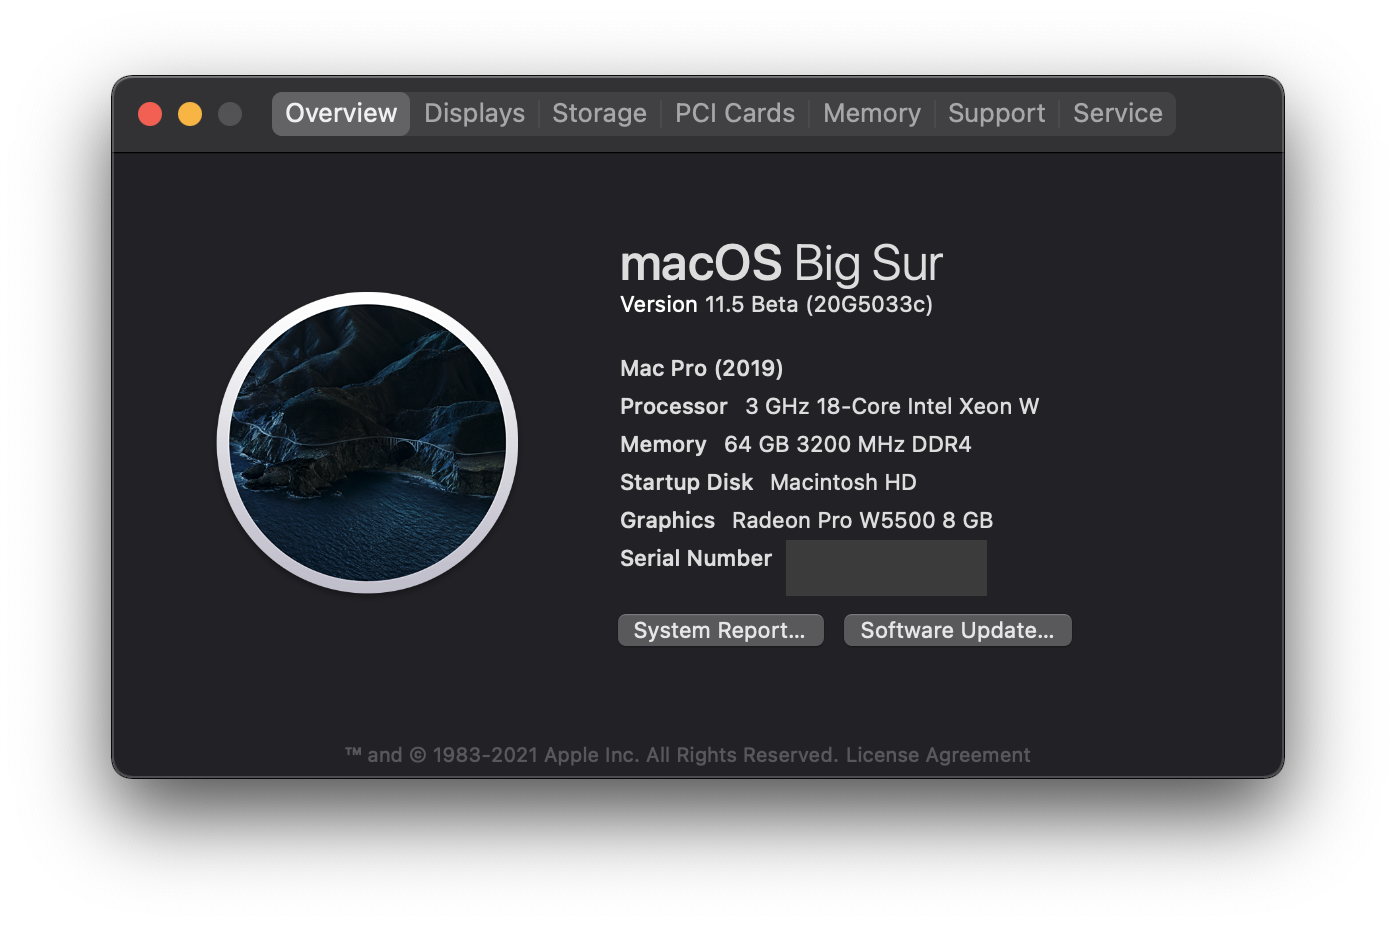
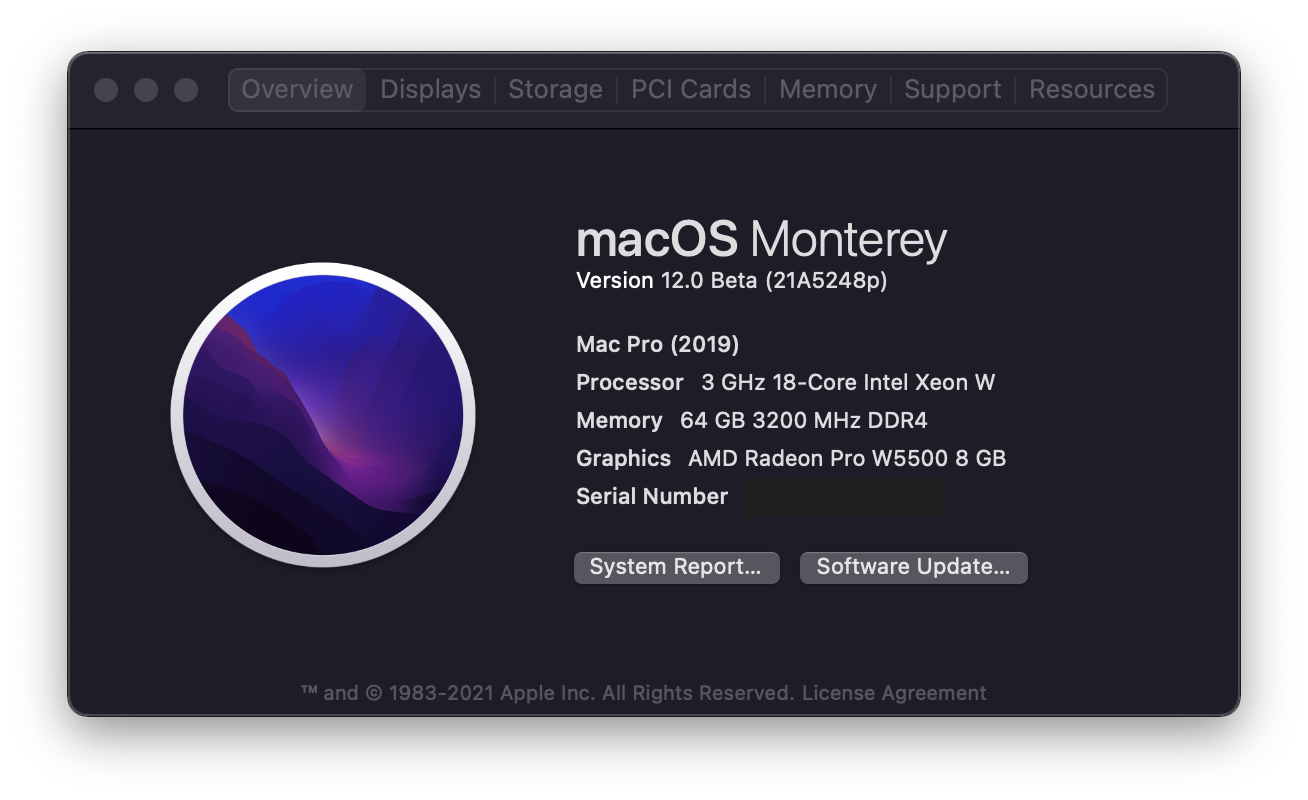
Updated to macOS Monterey Beta 1

Changed region(s): [[0.0306, 0.0625, 0.9786, 0.9375], [0.4281, 0.25, 0.7951, 0.75], [0.1223, 0.3125, 0.3976, 0.7188]]

diff --git a/README.md b/README.md
@@ -10,6 +10,9 @@ The ASUS X299 Hackintosh repository contains OpenCore EFI distributions and rela
 | Custom BIOS Collection | Contains modified BIOS files that have custom boot logos |
 | Personal EFI | Contains information about personal build |
 
+# macOS Monterey Beta Installation
+macOS Monterey currently does not boot with VirtualSMC.kext and CpuTscSync.kext.  Replaced these with FakeSMC.kext and TSCAdjustReset.kext in order to boot.
+
 # Optional USB Peripherals for Internal USB 2.0 Devices
 * 1. [USB 3.0 20 Pin Female to USB 2.0 Pin Male Adapter](https://www.amazon.com/gp/product/B01MFB04JP/ref=ppx_yo_dt_b_search_asin_title?ie=UTF8&psc=1)
     * This adapter converts the internal USB 3.0 19 pin header to a USB 2.0 9 pin.
